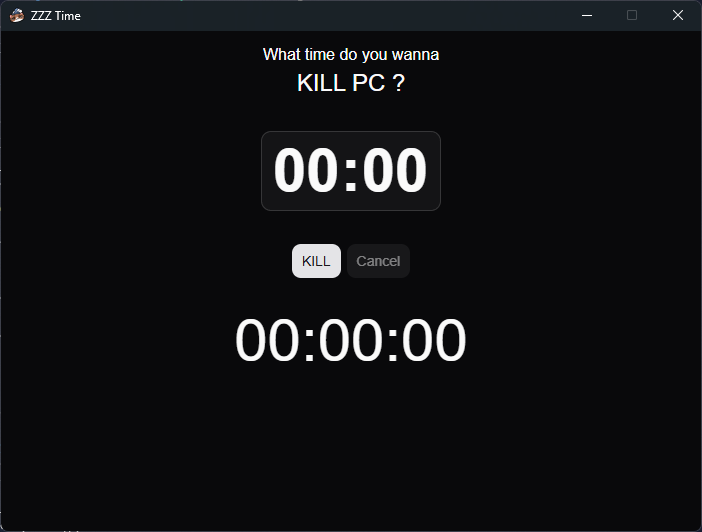
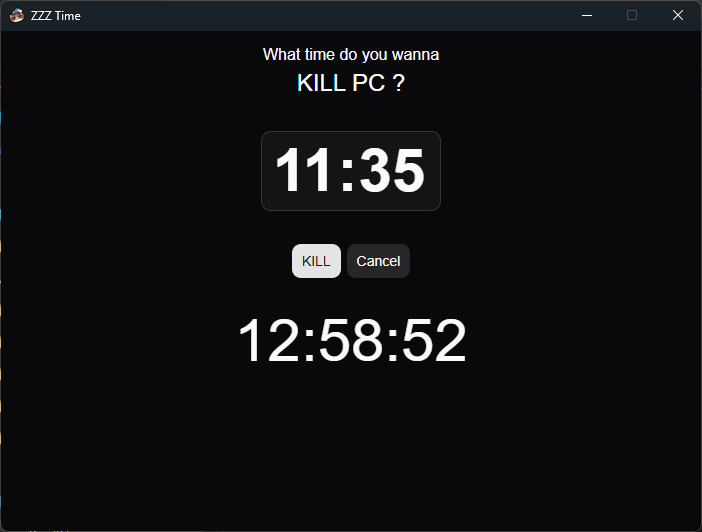
Fix CI npm file

diff --git a/README.md b/README.md
@@ -25,7 +25,7 @@ Designed to be simple and fast, ZZZ Time lets you schedule automatic PC shutdown
 ## Screenshots 🖼
 
 <p float="left">
-  <img src="https://raw.githubusercontent.com/ilianoKokoro/zzz-time/main/screenshots/main.png" width="400" />
+  <img src="https://raw.githubusercontent.com/ilianoKokoro/zzz-time/refs/heads/main/screenshots/main.png" height="500" />
 </p>
 
 ## Beta builds 🪲
